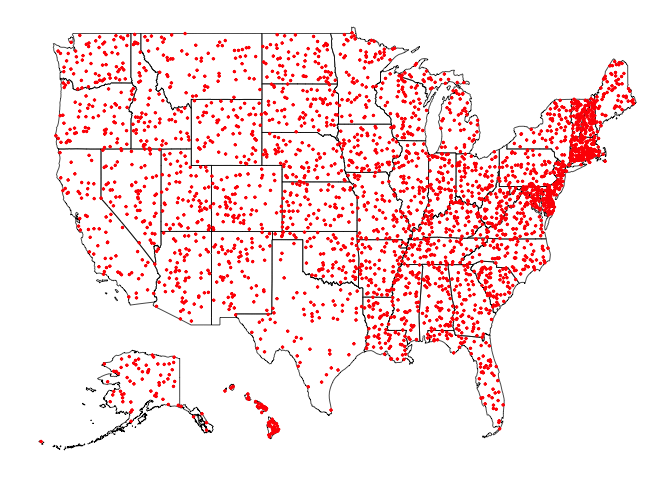
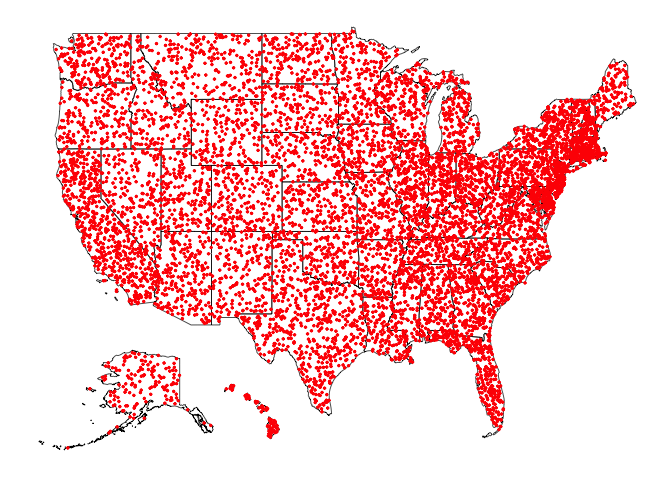
change to facetted plot

diff --git a/README.md b/README.md
@@ -25,13 +25,18 @@ The function `scale_shift` allows to scale and shift parts of the map:
      ggplot(aes(long, lat)) + geom_path(aes(group=group)) +
       ggthemes::theme_map() 
 
-![](README_files/figure-markdown_strict/unnamed-chunk-5-1.png) This map
-is available as data object `inset`.
+![](README_files/figure-markdown_strict/unnamed-chunk-5-1.png)
+
+This map is available as data object `inset`.
 
 Sampling from a uniform distribution
 ====================================
 
 This is what 3200 uniformly sampled locations across the US look like:
+
+    ## Warning in left_join_impl(x, y, by$x, by$y, suffix$x, suffix$y): joining
+    ## character vector and factor, coercing into character vector
+
 ![](README_files/figure-markdown_strict/unnamed-chunk-6-1.png)
 
 This is what the geographic distribution looks like when we sample 64
@@ -39,6 +44,6 @@ locations randomly from each state:
 ![](README_files/figure-markdown_strict/unnamed-chunk-7-1.png)
 
 The map below is based state-wide population estimates published by the
-US Census Bureau for 2015. Each dot respresents about 100,000 residents
+US Census Bureau for 2015. Each dot represents about 100,000 residents
 in each state:
 ![](README_files/figure-markdown_strict/unnamed-chunk-8-1.png)
